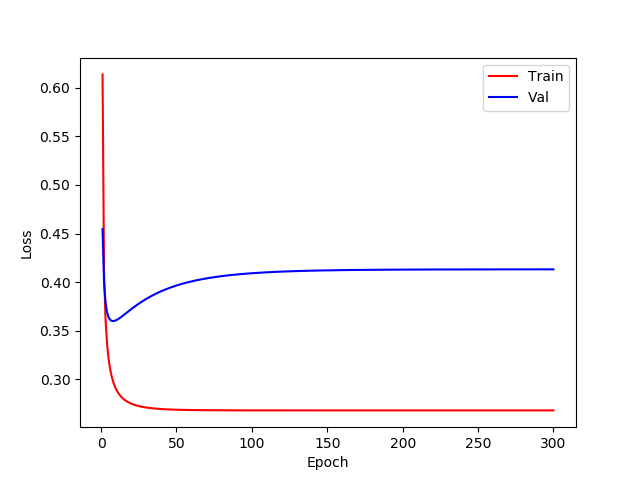
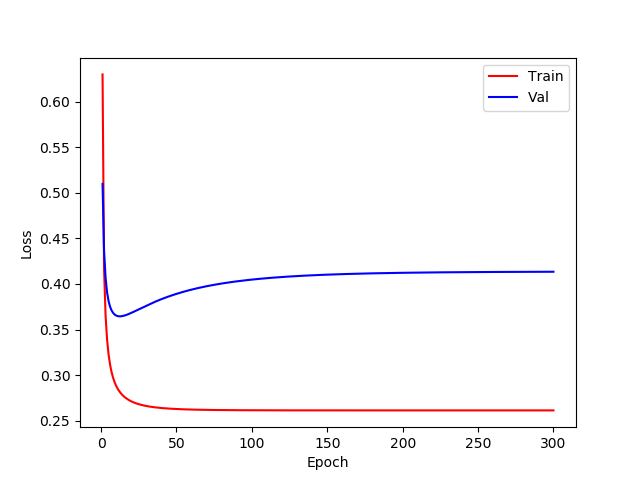
fix val size and change pivot point

diff --git a/README.md b/README.md
@@ -31,9 +31,8 @@ aclImdb
 
 ## Result
 
-Best model at: 5 th epoch, given val set
+Best model at: 12 th epoch, given val set
 
-Test accuracy is: 0.843200
-
+Test accuracy is: 0.851000
 
 
